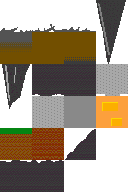
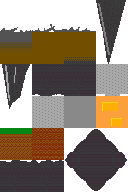
started on level one c

Changed region(s): [[0.5, 0.6562, 1.0, 1.0]]

diff --git a/js/resources.js b/js/resources.js
@@ -11,6 +11,7 @@ game.resources = [
   { name: 'levelone', type: 'tmx', src: 'data/map/levelone.tmx' },
   { name: 'leveloneb', type: 'tmx', src: 'data/map/leveloneb.tmx' },
   { name: 'levelonebg', type: 'image', src: 'data/map/levelonebg.png' },
+  { name: 'levelonec', type: 'tmx', src: 'data/map/levelonec.tmx' },
   { name: 'levelthree', type: 'tmx', src: 'data/map/levelthree.tmx' },
   { name: 'levelthreebg', type: 'image', src: 'data/map/levelthreebg.png' },
   { name: 'leveltwo', type: 'tmx', src: 'data/map/leveltwo.tmx' },

diff --git a/js/screens/play_screen.js b/js/screens/play_screen.js
@@ -25,6 +25,7 @@ game.PlayScreen = me.ScreenObject.extend({
       'intro': 'ld29p1',
       'levelone': 'ld29p1',
       'leveloneb': 'ld29p1',
+      'levelonec': 'ld29p1',
       'leveltwo': 'ld29p1',
       'levelthree': 'ld29p2',
       'final': 'ld29final'
